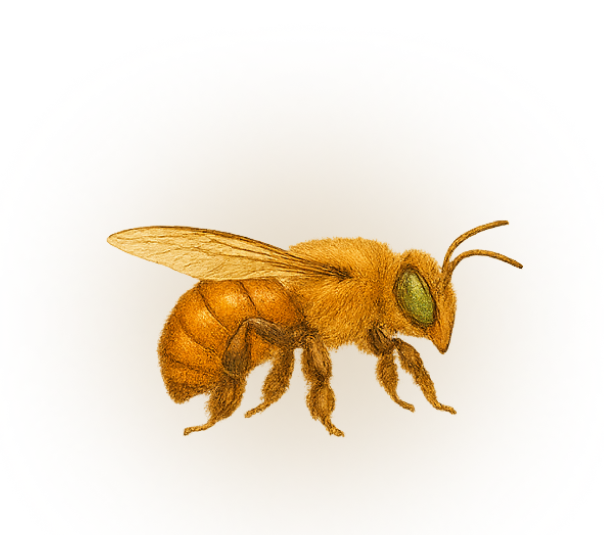
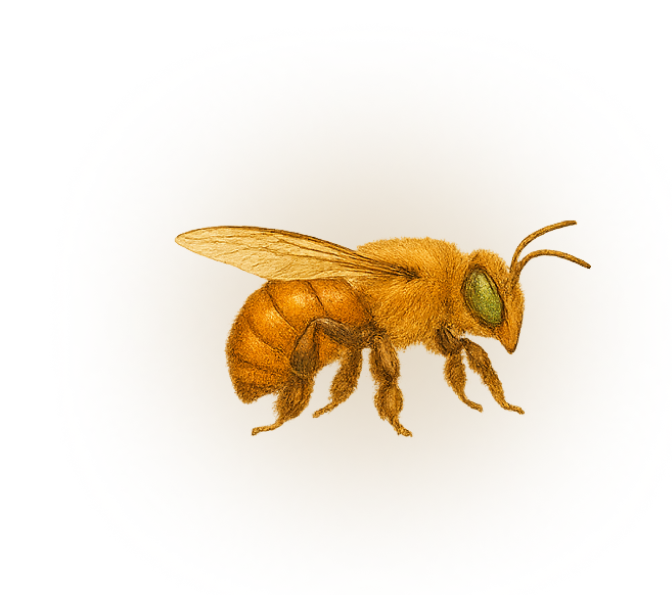
abelha quase

Changed region(s): [[0.1788, 0.3589, 0.894, 0.8374]]

diff --git a/Views/bee-anim.js b/Views/bee-anim.js
@@ -1,0 +1,144 @@
+// UMD simples: window.BeeAnimator
+(function(){
+  class BeeAnimator {
+    /**
+     * @param {HTMLImageElement} el  <img> alvo
+     * @param {Object} opts
+     *  - basePath: caminho da pasta (ex: "../assets/abelha")
+     *  - prefix:   prefixo dos arquivos (ex: "abelha")
+     *  - ext:      extensão ("png" | "jpg" | "webp")
+     *  - frames:   total de frames (ex: 10 p/ 0..9)
+     *  - fps:      quadros por segundo (ex: 12)
+     *  - scale:    escala numérica (1 = 100%)
+     *  - autoplay: se inicia tocando
+     *  - loop:     se repete
+     */
+    constructor(el, {
+      basePath="../assets/abelha",
+      prefix="abelha",
+      ext="png",
+      frames=10,
+      fps=12,
+      scale=1,
+      autoplay=true,
+      loop=true
+    } = {}) {
+      this.el = el;
+      this.basePath = basePath;
+      this.prefix = prefix;
+      this.ext = ext;
+      this.total = frames;
+      this.fps = fps;
+      this.msPerFrame = 1000 / Math.max(1, fps);
+      this.loop = loop;
+
+      this._images = [];
+      this._loaded = 0;
+      this._playing = false;
+      this._raf = 0;
+      this._last = 0;
+      this._acc = 0;
+      this._frame = 0;
+
+      // aplica escala via CSS var (mais fácil de reaproveitar por página)
+      this.setScale(scale);
+
+      // pré-carrega
+      this._preload().then(() => {
+        // garante primeiro frame visível
+        this._applyFrame(0);
+        if (autoplay) this.play();
+      });
+
+      // pausa quando a aba fica oculta
+      document.addEventListener('visibilitychange', () => {
+        if (document.hidden) this.pause();
+        else if (autoplay) this.play();
+      });
+    }
+
+    setScale(v=1){
+      if (!this.el) return;
+      this.el.style.setProperty('--bee-scale', String(v));
+    }
+
+    setFPS(fps=12){
+      this.fps = fps;
+      this.msPerFrame = 1000 / Math.max(1, fps);
+    }
+
+    play(){
+      if (this._playing) return;
+      this._playing = true;
+      this._last = performance.now();
+      const tick = (now) => {
+        if (!this._playing) return;
+        const dt = now - this._last;
+        this._last = now;
+        this._acc += dt;
+        while (this._acc >= this.msPerFrame) {
+          this._acc -= this.msPerFrame;
+          this._nextFrame();
+        }
+        this._raf = requestAnimationFrame(tick);
+      };
+      this._raf = requestAnimationFrame(tick);
+    }
+
+    pause(){
+      this._playing = false;
+      cancelAnimationFrame(this._raf);
+    }
+
+    stop(){
+      this.pause();
+      this._frame = 0;
+      this._applyFrame(0);
+    }
+
+    destroy(){
+      this.pause();
+      this._images = [];
+    }
+
+    /* ---------------------- internos ---------------------- */
+    _preload(){
+      return new Promise((resolve) => {
+        if (this.total <= 0) return resolve();
+        for (let i = 0; i < this.total; i++){
+          const img = new Image();
+          img.decoding = 'async';
+          img.loading = 'eager';
+          img.src = `${this.basePath}/${this.prefix}${i}.${this.ext}`;
+          img.onload = () => {
+            this._loaded++;
+            if (this._loaded === this.total) resolve();
+          };
+          img.onerror = () => {
+            // mesmo com erro, avança para não travar
+            this._loaded++;
+            if (this._loaded === this.total) resolve();
+          };
+          this._images.push(img);
+        }
+      });
+    }
+
+    _applyFrame(i){
+      const frame = this._images[i];
+      if (frame && frame.src) this.el.src = frame.src;
+    }
+
+    _nextFrame(){
+      this._frame++;
+      if (this._frame >= this.total){
+        if (this.loop) this._frame = 0;
+        else { this._frame = this.total - 1; this.pause(); }
+      }
+      this._applyFrame(this._frame);
+    }
+  }
+
+  window.BeeAnimator = BeeAnimator;
+})();
+

diff --git a/Views/styles.css b/Views/styles.css
@@ -10,7 +10,11 @@ html, body { height: 100%; margin: 0; overflow: hidden; }
   --shadow: 0 25px 60px -18px rgba(0,0,0,.55);
 
   /* <<< padding fixo da borda do SQUAD >>> */
-  --squad-pad: clamp(12px, 12vw, 108px);
+  --squad-pad: clamp(12px, 12vw, 88px);
+
+  --bee-scale: 1;
+  --bee-x: 0%;     /* deslocamento horizontal da abelha */
+  --bee-y: 0px;    /* deslocamento vertical da abelha */
 }
 
 /* Utilitário (equiv. Bootstrap) para esconder texto visualmente */
@@ -59,17 +63,22 @@ html, body { height: 100%; margin: 0; overflow: hidden; }
 
 /* Colunas internas */
 .col{ position: relative; min-width: 0; }
-.bee-wrap{ display: grid; place-items: center; }
+/* garante centralização no grid/coluna da abelha */
+.bee-wrap{ 
+  display: grid; 
+  place-items: center;  /* centro perfeito da coluna */
+}
 .bee{
   width: min(540px, 50vw);
   height: auto;
   filter:
     drop-shadow(0 14px 28px rgba(0,0,0,.45))
     drop-shadow(0 2px 6px rgba(0,0,0,.25));
-  transform: translateX(6%);
+  transform: translate(var(--bee-x), var(--bee-y)) scale(var(--bee-scale, 1));
+  transform-origin: center center;
 }
 
-.hero-copy{ align-self: center; }
+.hero-copy{ align-self: center; } 
 .title{
   margin: 0 0 .35rem 0;
   font-family: system-ui, -apple-system, Segoe UI, Roboto, Ubuntu, Cantarell, "Helvetica Neue", Arial, "Noto Sans";

diff --git a/Views/index.html b/Views/index.html
@@ -5,7 +5,11 @@
   <meta name="viewport" content="width=device-width, initial-scale=1, viewport-fit=cover" />
   <title>Bee Adventure</title>
 
+  <!-- Pré-carrega o vídeo de fundo -->
   <link rel="preload" as="video" href="../assets/intro.mp4" type="video/mp4">
+  <!-- (Opcional) pré-carrega o primeiro frame da abelha para evitar flash -->
+  <link rel="preload" as="image" href="../assets/abelha/abelha0.png" imagesrcset="../assets/abelha/abelha0.png 1x">
+
   <link rel="stylesheet" href="./styles.css" />
   <link rel="stylesheet" href="https://cdn.jsdelivr.net/npm/bootstrap-icons@1.11.3/font/bootstrap-icons.min.css" />
 </head>
@@ -36,7 +40,12 @@
   <!-- SQUAD: ocupa a viewport com padding das bordas -->
   <main class="squad" role="main" aria-label="Tela inicial">
     <div class="col bee-wrap">
-      <img class="bee" src="../assets/abelha.png" alt="Abelha" />
+      <img
+        id="beeSprite"
+        class="bee"
+        src="../assets/abelha/abelha0.png"
+        alt="Abelha animada"
+      />
     </div>
 
     <div class="col hero-copy">
@@ -54,6 +63,9 @@
     </div>
   </main>
 
+  <!-- Animador reutilizável da abelha (deve estar em /views/bee-anim.js) -->
+  <script src="./bee-anim.js"></script>
+  <!-- Seu script principal -->
   <script src="./script.js"></script>
 </body>
 </html>

diff --git a/Views/script.js b/Views/script.js
@@ -54,7 +54,24 @@ window.addEventListener('load', () => {
     const v = Math.min(1, Math.max(0, parseFloat(savedVolume)));
     if (!Number.isNaN(v)) video.volume = v;
   }
+
   ensureAutoplay(); 
+
+   // Bee Animator — você pode mudar fps/scale por página
+  const beeEl = document.getElementById('beeSprite');
+  if (beeEl && window.BeeAnimator) {
+    // exemplo: 12 fps, escala 1.0, 10 frames "abelha0..9.png"
+    window.beeAnim = new BeeAnimator(beeEl, {
+      basePath: "../assets/abelha",
+      prefix: "abelha",   // arquivos: abelha0..abelha9
+      ext: "png",         // "png" | "webp" | "jpg"
+      frames: 10,
+      fps: 2,
+      scale: 1,           // escala dessa página
+      autoplay: true,
+      loop: true
+    }); 
+  }
 });
 video.addEventListener('error', () => { if (autoplayNote) autoplayNote.hidden = false; });
 
